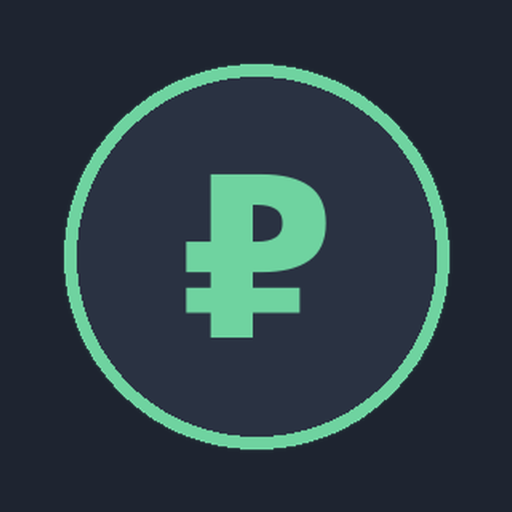
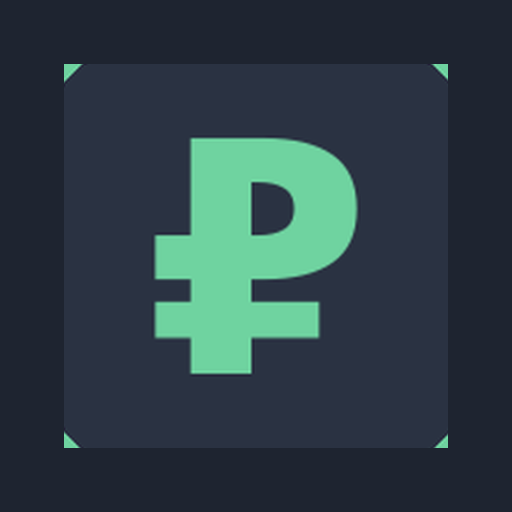
Add files via upload

diff --git a/icon-generator.html b/icon-generator.html
@@ -1,0 +1,104 @@
+<!DOCTYPE html>
+<html>
+<head>
+<meta charset="UTF-8">
+<title>Фиксер иконки для PWA</title>
+<style>
+body { font-family: Arial; padding: 20px; background: #f0f0f0; }
+.container { max-width: 600px; margin: 0 auto; background: white; padding: 20px; border-radius: 10px; }
+button { background: #1f9d63; color: white; border: none; padding: 10px 20px; border-radius: 5px; cursor: pointer; font-size: 16px; margin: 10px 5px; }
+canvas { border: 1px solid #ccc; margin: 10px 0; }
+.preview { display: inline-block; margin: 10px; text-align: center; }
+input[type=file] { margin: 10px 0; }
+</style>
+</head>
+<body>
+<div class="container">
+<h1>Фиксер иконки для PWA</h1>
+<p>Загрузи свою иконку со знаком рубля. Инструмент уберет круглую рамку, уменьшит символ и добавит правильные отступы для Android.</p>
+
+<input type="file" id="fileInput" accept="image/*">
+<br>
+<label>Размер выходной иконки:
+<select id="sizeSelect">
+<option value="192">192x192</option>
+<option value="512">512x512</option>
+</select>
+</label>
+<br>
+<button onclick="processIcon()">Обработать</button>
+<button onclick="downloadIcon()" id="downloadBtn" style="display:none">Скачать</button>
+
+<div id="preview"></div>
+<canvas id="canvas" style="display:none"></canvas>
+</div>
+
+<script>
+let processedBlob = null;
+
+function processIcon() {
+  const file = document.getElementById('fileInput').files[0];
+  const size = parseInt(document.getElementById('sizeSelect').value);
+
+  if (!file) {
+    alert('Выбери файл иконки!');
+    return;
+  }
+
+  const img = new Image();
+  img.onload = function() {
+    const canvas = document.getElementById('canvas');
+    const ctx = canvas.getContext('2d');
+
+    canvas.width = size;
+    canvas.height = size;
+
+    // Темный фон на весь квадрат
+    ctx.fillStyle = '#1e2430';
+    ctx.fillRect(0, 0, size, size);
+
+    // Рисуем оригинальную иконку уменьшенной (только центральную часть без рамки)
+    // Берем центральную часть исходной иконки (без краев с рамкой)
+    const sourceSize = img.width;
+    const cropSize = sourceSize * 0.65; // Берем только центр (символ рубля без рамки)
+    const cropOffset = (sourceSize - cropSize) / 2;
+
+    // Размещаем в безопасной зоне (75% от размера)
+    const targetSize = size * 0.75;
+    const targetOffset = (size - targetSize) / 2;
+
+    ctx.drawImage(
+      img,
+      cropOffset, cropOffset, cropSize, cropSize, // source
+      targetOffset, targetOffset, targetSize, targetSize // destination
+    );
+
+    // Конвертируем в blob
+    canvas.toBlob(function(blob) {
+      processedBlob = blob;
+
+      const preview = document.getElementById('preview');
+      const url = URL.createObjectURL(blob);
+      preview.innerHTML = '<div class="preview"><h3>Результат ' + size + 'x' + size + ':</h3>' +
+        '<img src="' + url + '" style="width:192px; height:192px; border:1px solid #ccc">' +
+        '<br><small>Символ без рамки в безопасной зоне</small></div>';
+
+      document.getElementById('downloadBtn').style.display = 'inline-block';
+    }, 'image/png');
+  };
+
+  img.src = URL.createObjectURL(file);
+}
+
+function downloadIcon() {
+  if (!processedBlob) return;
+
+  const size = document.getElementById('sizeSelect').value;
+  const a = document.createElement('a');
+  a.href = URL.createObjectURL(processedBlob);
+  a.download = 'icon-' + size + '.png';
+  a.click();
+}
+</script>
+</body>
+</html>
